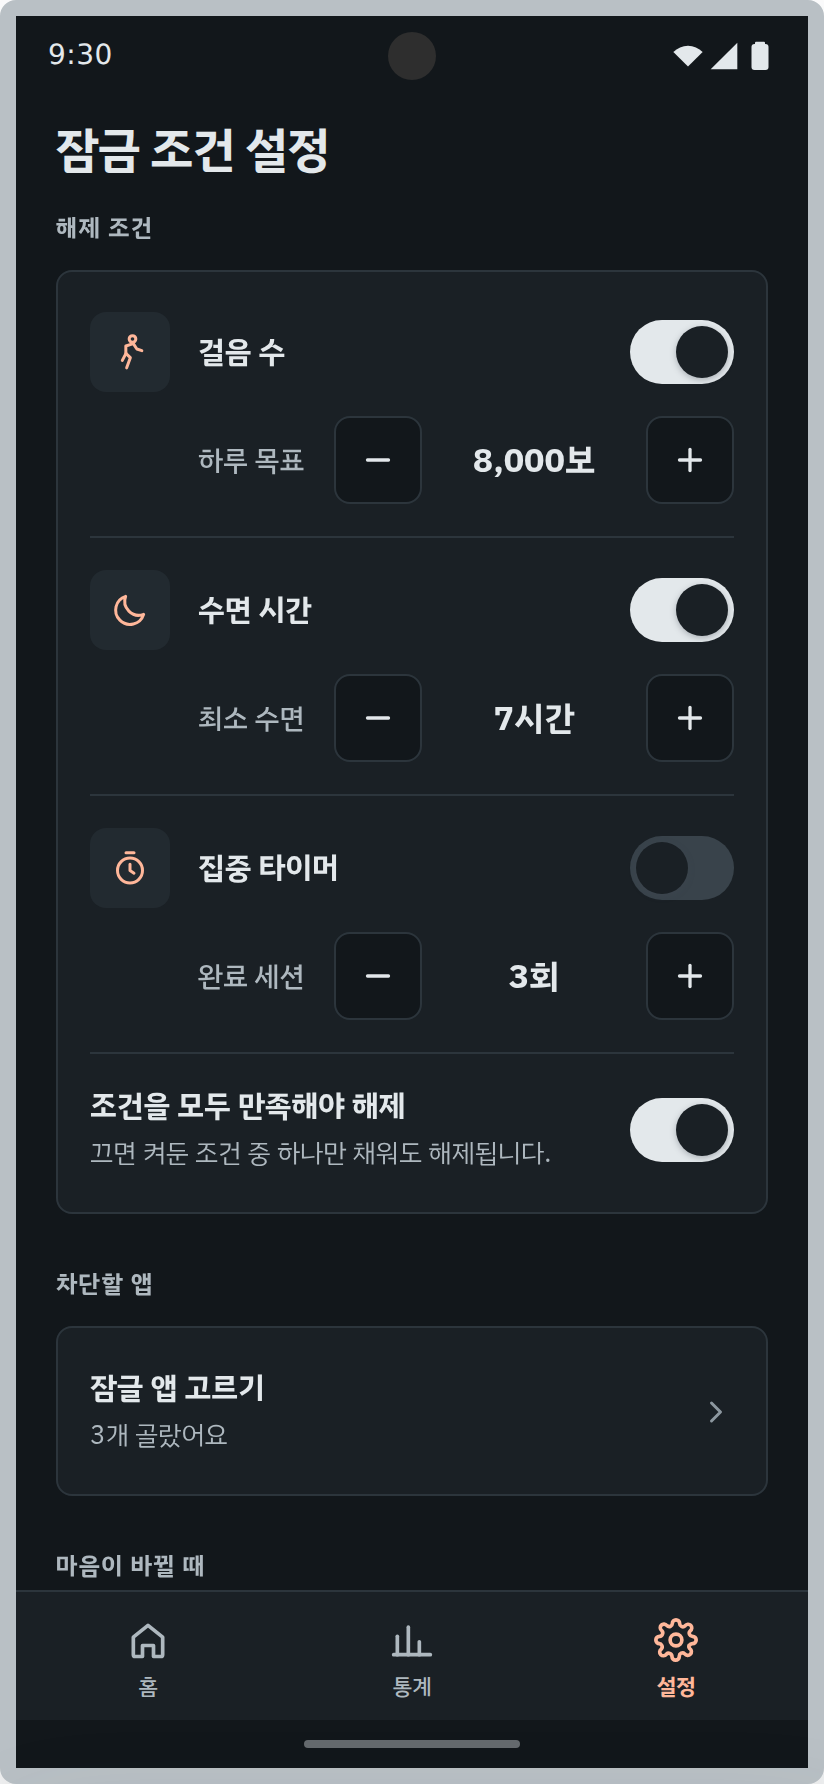
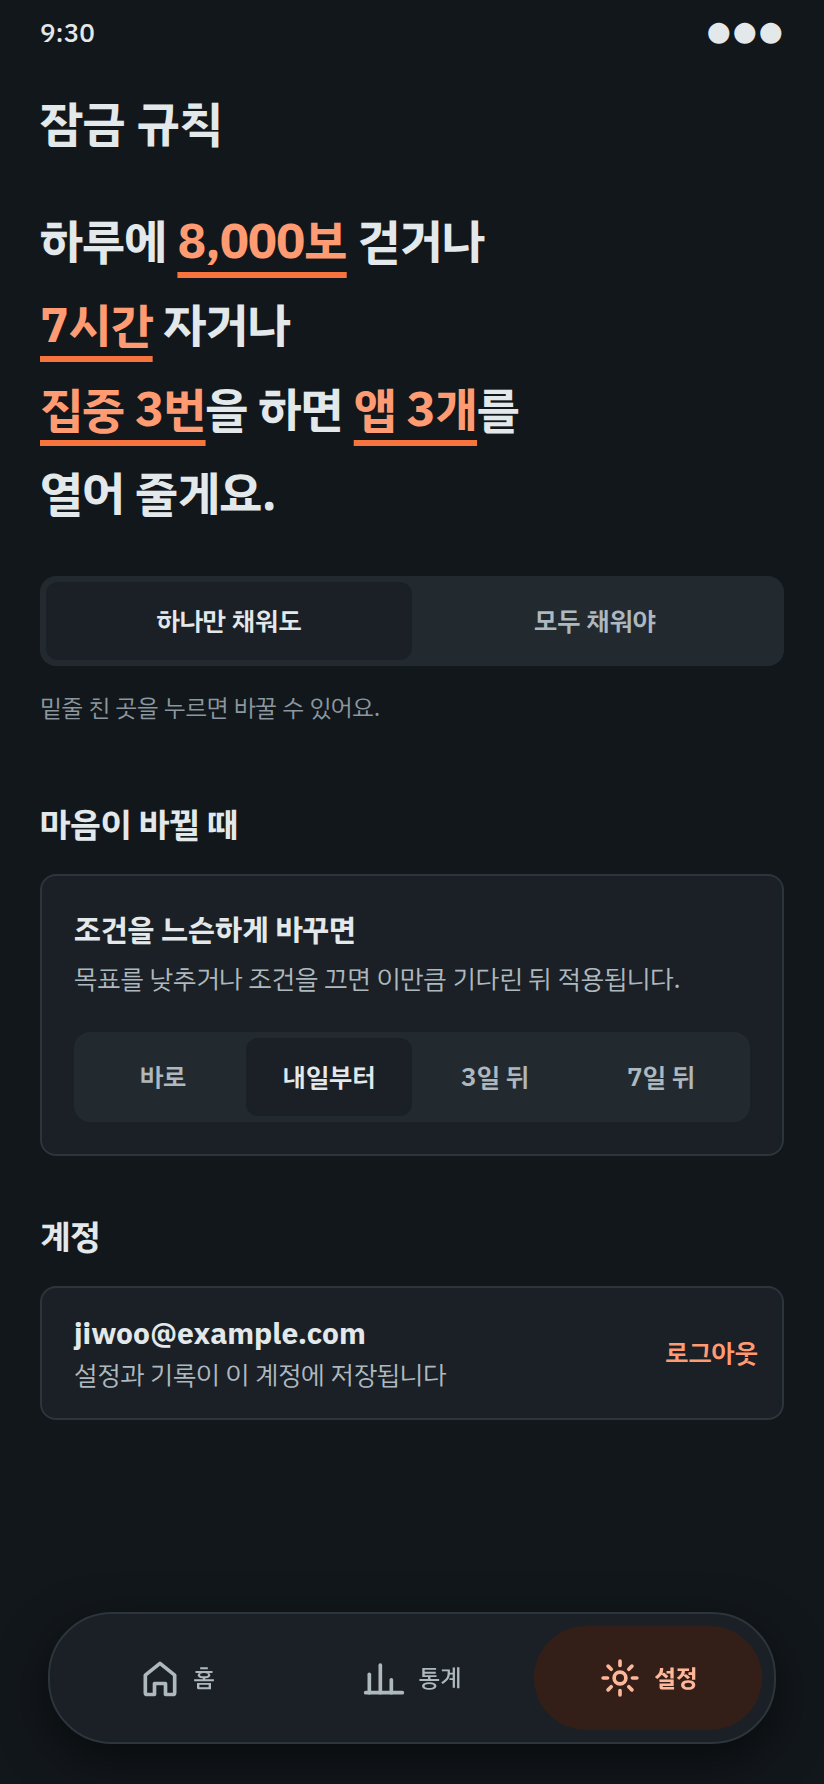
문서·사진: 등산로 홈, 30일 달력 통계, 한 문장 잠금 규칙
Claude-Session: https://claude.ai/code/session_01TfDVSB28YoT3k36WsBEoLF

diff --git a/README.md b/README.md
@@ -89,12 +89,12 @@
 | **Sign Up** | 이메일 가입. 비밀번호 확인 · 개인정보 처리방침 동의 · 인증 메일을 보냈으면 "메일함을 확인해 주세요" | [`SignUpScreen.kt`](app/src/main/java/com/steplock/app/ui/screens/SignUpScreen.kt) |
 | **Tutorial** | 첫 실행 안내 네 장. 스텝이가 말풍선으로 한 장에 한 가지씩 — 인사 · 해제 조건 · 5분 허용 · 권한 | [`TutorialScreen.kt`](app/src/main/java/com/steplock/app/ui/screens/TutorialScreen.kt) |
 | **Onboarding** | 필요한 권한 세 줄을 한 화면에(남은 개수 표시). 설정에서만 켜는 두 줄은 무엇을 켜면 되는지 안내하고, 켜는 순간 앱으로 저절로 돌아옴. 권한 없이 먼저 둘러보기 | [`OnboardingScreen.kt`](app/src/main/java/com/steplock/app/ui/screens/OnboardingScreen.kt) |
-| **Home** | 지금 상태를 한 문장으로, 그 아래 오늘의 숫자 · 최근 7일 링 · 앱별 오늘 막은 횟수 (아래 "홈" 절) | [`HomeScreen.kt`](app/src/main/java/com/steplock/app/ui/screens/HomeScreen.kt) |
-| **Settings** | 해제 조건(한 패널), 잠글 앱 고르기, 완화 대기 기간, 계정, 화면 모드(기기 설정 · 라이트 · 다크), 사용 방법 다시 보기 | [`SettingsScreen.kt`](app/src/main/java/com/steplock/app/ui/screens/SettingsScreen.kt) |
+| **Home** | 아래에서 위로 오르는 등산로 위의 스텝이와 "얼마나 더"를 말하는 큰 숫자, 옆으로 넘기는 오늘 숫자, 잠근 앱별 쓴 시간, 이번 주 일곱 칸 (아래 "홈" 절) | [`HomeScreen.kt`](app/src/main/java/com/steplock/app/ui/screens/HomeScreen.kt) |
+| **Settings** | 잠금 규칙을 한 문장으로("하루에 8,000보 걷거나 … 앱 3개를 열어 줄게요"), 밑줄 친 값을 누르면 시트에서 고침. 완화 대기 기간, 계정, 화면 모드, 사용 방법 다시 보기 | [`SettingsScreen.kt`](app/src/main/java/com/steplock/app/ui/screens/SettingsScreen.kt) · [`RuleEditor.kt`](app/src/main/java/com/steplock/app/ui/components/RuleEditor.kt) |
 | **App Picker** | 기기에 깔린 앱에서 잠글 앱 고르기. 검색, 고른 앱 먼저, 해제 대기 중인 앱 표시 | [`AppPickerScreen.kt`](app/src/main/java/com/steplock/app/ui/screens/AppPickerScreen.kt) |
 | **Lock** | 차단 앱 실행 시 덮이는 전체 화면 오버레이. 켜 둔 조건 하나만 링으로 크게, 나머지는 칩으로 (다크 팔레트) | [`LockOverlayScreen.kt`](app/src/main/java/com/steplock/app/ui/screens/LockOverlayScreen.kt) |
 | **Pomodoro** | 25분 집중 세션. 앱을 잠그는 순간 저절로 시작되고 **끝날 때까지 멈출 수 없습니다** | [`PomodoroScreen.kt`](app/src/main/java/com/steplock/app/ui/screens/PomodoroScreen.kt) |
-| **Stats** | 7일 / 30일 전환, 걸음 차트와 요약 3칸, 조건별 일평균과 달성률 | [`StatsScreen.kt`](app/src/main/java/com/steplock/app/ui/screens/StatsScreen.kt) |
+| **Stats** | 연속 기록 숫자 하나, 지난 30일 달력(채운 날 흑연 · 고른 날 주황), 누른 날의 걸음 · 잠근 앱 사용 · 잠긴 시간, 하루 평균 | [`StatsScreen.kt`](app/src/main/java/com/steplock/app/ui/screens/StatsScreen.kt) |
 
 화면 이동: `Login(→ Sign Up) → Tutorial → Onboarding → Home`, 홈에서 집중 타이머 · 잠글 앱 고르기로 들어갑니다.
 잠금 화면은 감시 서비스가 차단 앱 위에 띄우며, 집중 중이면 거기서 타이머로 바로 넘어갈 수 있습니다.
@@ -115,21 +115,37 @@
   <img src="docs/screens/11-home-dark.png" width="36%" alt="홈 — 다크 모드" />
 </p>
 
-**할 일의 양을 가장 크게** 말합니다. 화면을 연 사람이 가장 알고 싶은 건 "얼마나 더"라서,
-문장 속에 묻혀 있던 숫자를 떼어 52sp로 올렸습니다. 위에서 아래로 *지금 → 길 → 오늘 → 최근 → 대상*.
+첫 화면은 **등산로 한 장**입니다. 아래에서 위로 굽이쳐 오르는 길을 산길 나무의 주황 표식처럼 칸(26칸)으로
+칠하고, 걸은 만큼 칸이 주황으로 차며, 맨 위 정상에 흑연색 자물쇠 기둥이 서 있습니다. 스텝이는 걸은 만큼의
+자리에 섭니다. 진행 막대를 옆으로 눕히는 대신 위로 세워 "목표에 다가간다"가 "올라간다"로 읽히게 했고,
+칸은 곡선의 길이 기준으로 고르게 놓아 굽은 곳에서 몰리지 않습니다(`TrailMap`).
 
 | 구역 | 보여 주는 것 |
 | --- | --- |
-| 지금 | "YouTube 외 2개 잠김"(점 하나와 글자) → 큰 숫자 **2,760보** → "더 걸으면 잠금이 풀려요" → "동네 한 바퀴, 약 25분이면 충분해요"(분당 약 100보로 어림) |
-| 길 | 굵은 길 위를 스텝이가 걷고, 끝에는 자물쇠. 걸음 조건이면 목표를 4등분한 이정표(2k · 4k · 6k) |
-| 나머지 조건 | 옅은 띠 한 줄씩 — "수면 7시간 채웠어요 ✓", 못 채웠으면 "5시간 / 7시간". 집중 타이머 띠는 누르면 타이머로 |
-| 오늘 한눈에 | 2×3 숫자 — **잠근 앱 사용 시간 · 잠겨 있던 시간**을 맨 앞에, 그 아래 오늘 막은 횟수 · 걸은 거리 · 남은 5분 허용 · 집중 세션(집중 조건이 꺼져 있으면 최근 7일 달성) |
-| 최근 7일 걸음 | 걸음 막대와 목표 점선. 채운 날은 흑연, 못 채운 날은 흐린 회색, 오늘만 표식 주황. 누르면 통계로 |
-| 오늘 막은 앱 | 앱마다 오늘 쓴 시간(오른쪽 숫자)과 그만큼 차는 앰버 막대, 이름 옆에 막은 횟수. 오래 쓴 앱이 위로 |
+| 지금 | 길 왼쪽에 상태 판(잠기면 흑연 판 + 자물쇠) → 표지판 숫자 **2,760** 보 → "더 걸으면 잠금이 풀려요" → "동네 한 바퀴, 약 25분이면 충분해요". 왼쪽 아래 "5,240 / 8,000보" |
+| 오늘 | **옆으로 넘기는 숫자 칸** — 잠근 앱 사용 · 잠겨 있던 시간 · 오늘 막은 횟수 · 걸은 거리 · 남은 5분 허용 · 집중 세션. 다음 칸이 살짝 보여 넘길 수 있다는 걸 알립니다 |
+| 잠근 앱을 쓴 시간 | 스크린 타임처럼 **줄 바닥이 쓴 시간만큼 차오르는** 앱 줄. 오른쪽 큰 숫자가 쓴 시간, 이름 아래가 막은 횟수 |
+| 이번 주 | 일곱 칸 — 채운 날 흑연, 못 채운 날 회색, 오늘은 주황 테두리. 누르면 통계로 |
 
-카드를 쌓지 않습니다. 구역은 44dp 여백과 섹션 제목으로 나누고, 면을 까는 건 "나머지 조건" 띠뿐입니다.
-하단 탭은 화면에서 띄운 알약(좌우 24dp, 아래 12dp)이고 세 탭 모두 이름이 보입니다. 내용은 탭
-뒤로 흐르고, 스크롤 끝에는 탭에 가리지 않게 여백을 둡니다.
+구역 제목은 작은 회색 라벨이 아니라 17sp 흑연 제목이고, 카드는 쌓지 않습니다. 하단 탭은 화면에서 띄운
+알약이며 내용은 그 뒤로 흐릅니다.
+
+### 통계 · 잠금 규칙
+
+<p align="center">
+  <img src="docs/screens/07-stats.png" width="30%" alt="통계 — 30일 달력" />
+  <img src="docs/screens/04-settings.png" width="30%" alt="잠금 규칙 — 한 문장" />
+  <img src="docs/screens/15-rule-sheet.png" width="30%" alt="잠금 규칙 — 값 고치는 시트" />
+</p>
+
+- **통계는 달력 한 장.** 차트와 요약 칸 대신 지난 30일을 요일에 맞춘 달력으로 — 채운 날은 흑연, 못 채운 날은
+  간 만큼 옅은 회색, 기록 없는 날은 테두리만, 고른 날은 주황. 하루를 누르면 그날의 걸음 · 잠근 앱 사용 ·
+  잠겨 있던 시간이 아래에 나옵니다. "얼마나 꾸준했나"는 검은 칸이 이어진 모양으로 보입니다.
+- **잠금 규칙은 한 문장.** "하루에 **8,000보** 걷거나 **7시간** 자거나 **집중 3번**을 하면 **앱 3개**를 열어 줄게요."
+  스위치와 스테퍼가 늘어선 표에서는 조건 셋 + 전부 만족 스위치 + 앱 목록을 머릿속에서 합쳐야 규칙이
+  되지만, 문장은 그 자체가 규칙입니다. 밑줄 친 값을 누르면 아래에서 시트가 올라와 그 값 하나만 고치고
+  (`ModalBottomSheet`), 꺼 둔 조건은 문장에서 빠져 "＋ 조건 추가"로 남습니다. "하나만 / 모두"는 연결어로
+  드러납니다 — 하나만이면 "걷거나 … 자거나", 모두면 "걷고 … 자고".
 
 막은 횟수는 감시 서비스가 잠금 화면을 띄울 때 앱별로 기록합니다. 기기에만 두고 날짜가 바뀌면
 새로 셉니다. 같은 앱에 머무는 동안은 잠금을 다시 띄우지 않으므로 "그 앱을 열려고 한 횟수"에
